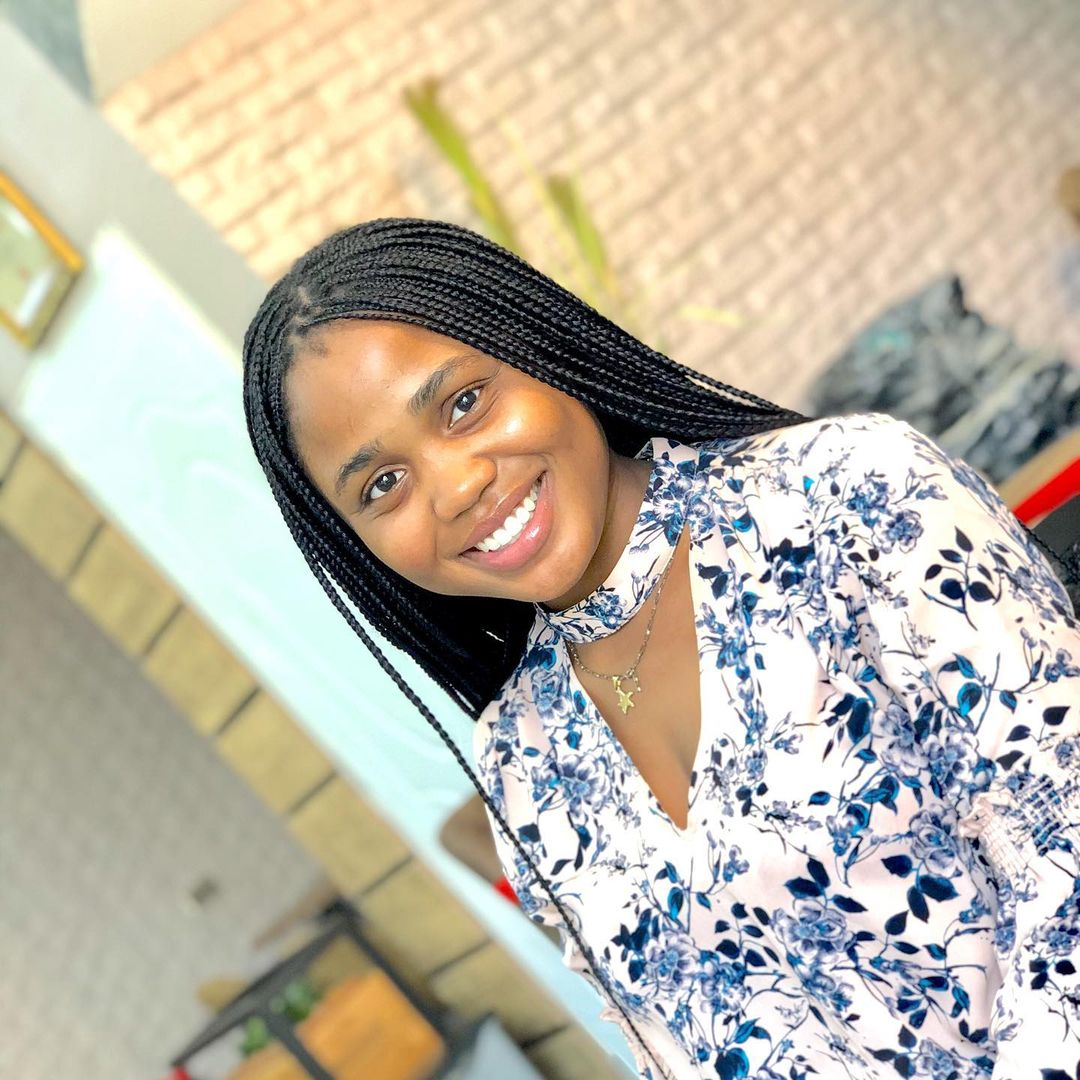
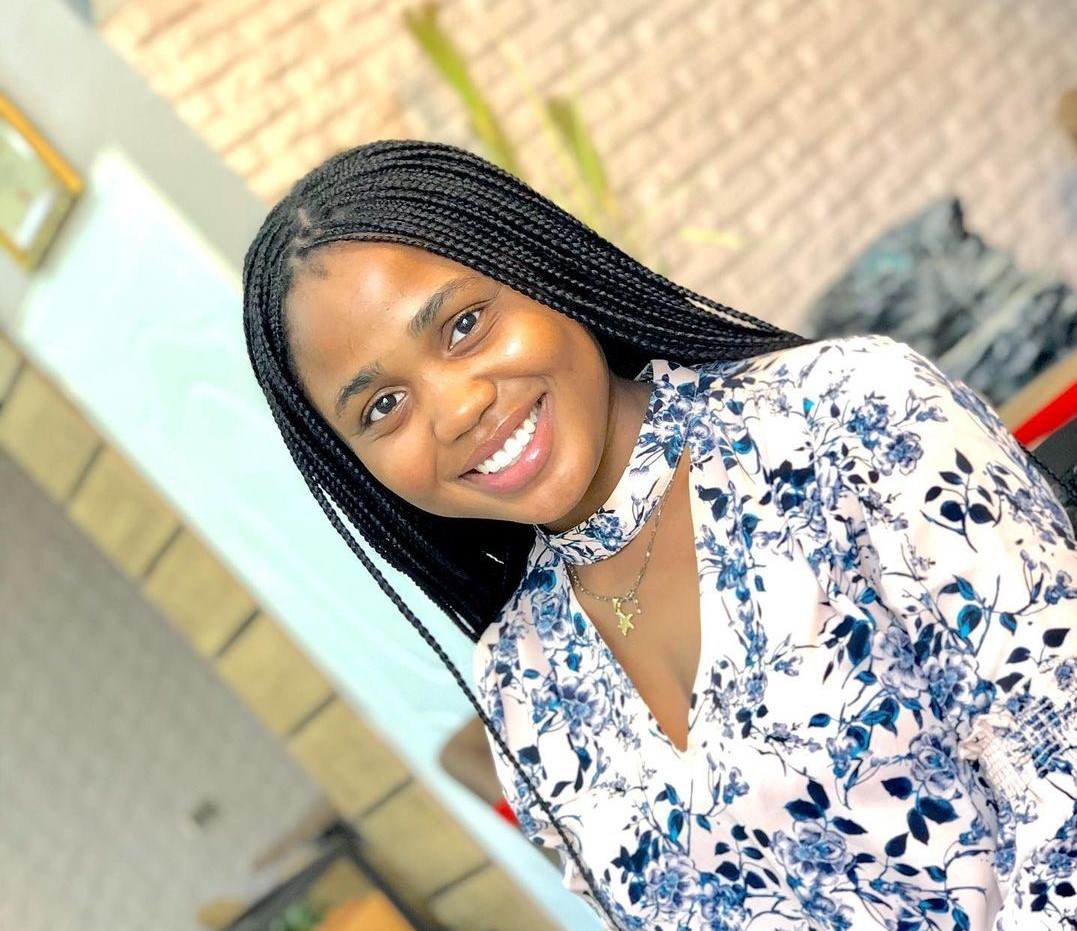
f

diff --git a/LUSC/LUSC/team.html b/LUSC/LUSC/team.html
@@ -433,7 +433,7 @@
           </div>
           <div class="col-lg-4 col-md-6 wow fadeInUp" data-wow-delay="0.1s">
             <div class="team-item rounded">
-              <img class="img-fluid" src="LUSC23/" alt="Welfare Secretary Female" />
+              <img class="img-fluid" src="LUSC23/welfare female.jpg" alt="Welfare Secretary Female" />
               <div class="team-text">
                 <h4 class="mb-0">Bello Sharon</h4>
                 <p class="text-primary">Welfare Secretary Female</p>
